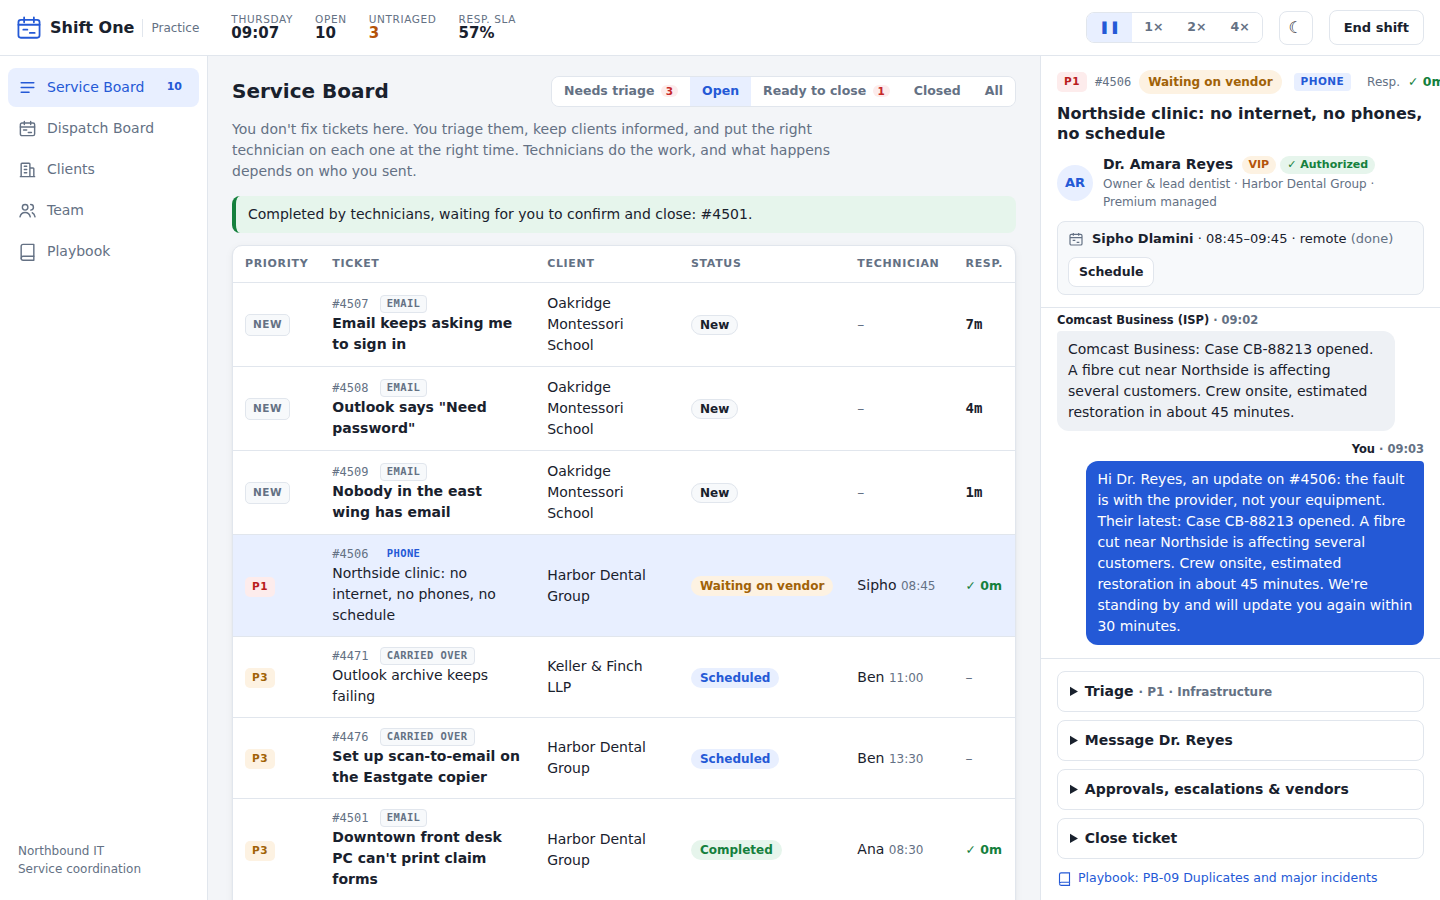
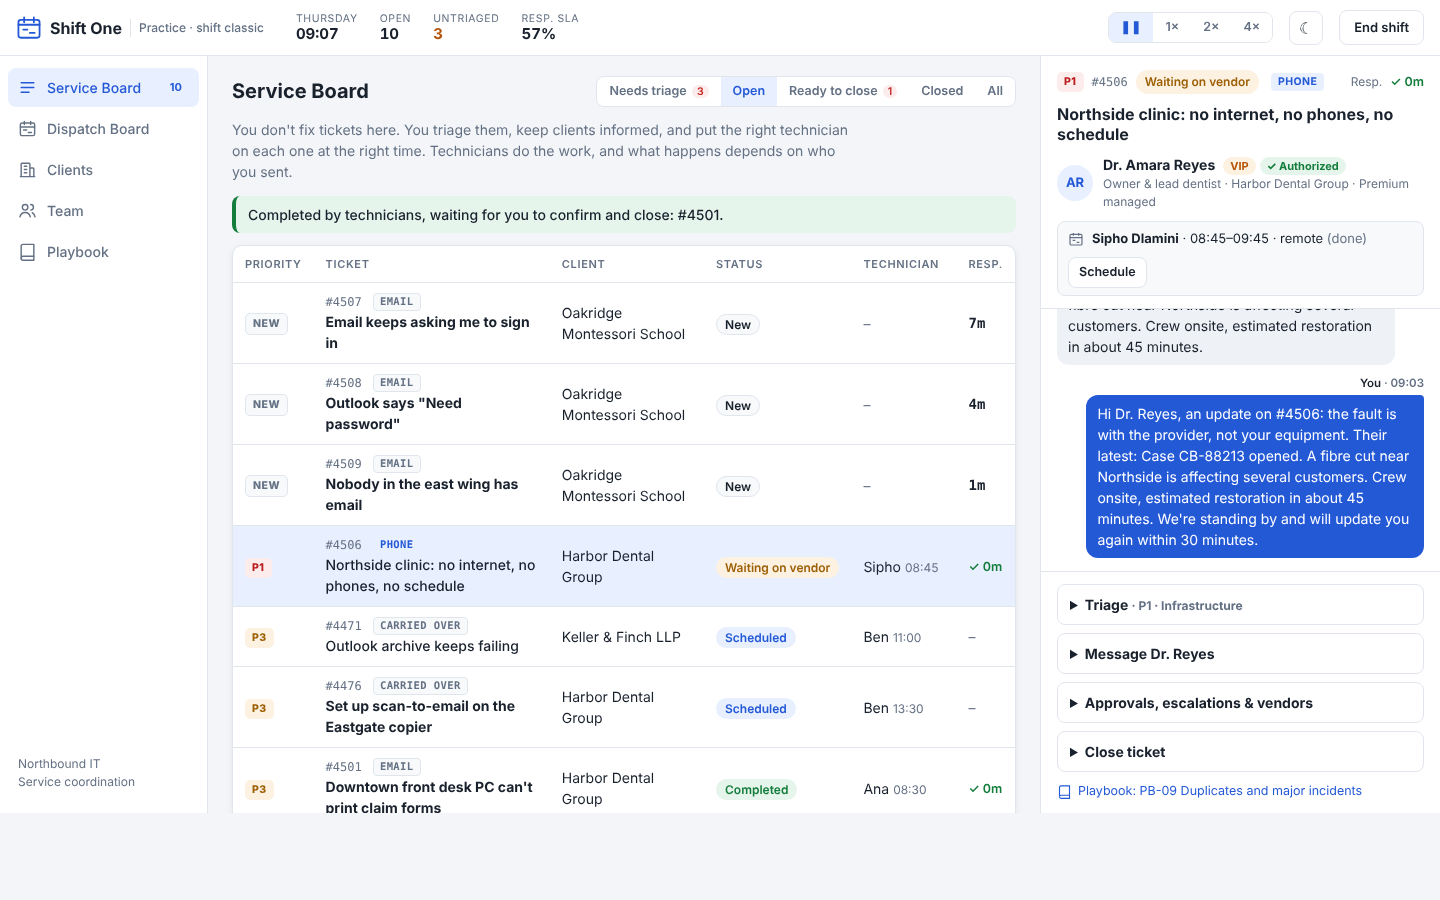
Regenerate README images; load the start-screen files in the harnesses
tools/shot.html and tools/dispatch-shot.html now load landing.css,
landing.js, focus.js and the Archivo face, so the start-screen shots
show the redesigned start screens instead of the old ones. Every image
regenerated with tools/screenshots.py: the dark-mode shots show the new
button labels.

Claude-Session: https://claude.ai/code/session_01LNDJ5EFAAbHZ7QXThGXrGK

diff --git a/tools/dispatch-shot.html b/tools/dispatch-shot.html
@@ -1,11 +1,11 @@
 <!DOCTYPE html>
 <!-- Screenshot harness for Service Coordinator mode: loads the real app, then stages a scene from the URL hash.
      Used by tools/screenshots.py. Example: /tools/dispatch-shot.html?theme=dark#dispatch -->
-<html lang="en"><head><meta charset="UTF-8"><meta name="viewport" content="width=device-width, initial-scale=1"><link rel="stylesheet" href="../css/tokens.css"><link rel="stylesheet" href="../css/styles.css"><link rel="stylesheet" href="../css/dispatch.css"></head>
+<html lang="en"><head><meta charset="UTF-8"><meta name="viewport" content="width=device-width, initial-scale=1"><link rel="stylesheet" href="https://fonts.googleapis.com/css2?family=Archivo:wdth,wght@62..125,400..800&display=swap"><link rel="stylesheet" href="../css/tokens.css"><link rel="stylesheet" href="../css/styles.css"><link rel="stylesheet" href="../css/dispatch.css"><link rel="stylesheet" href="../css/landing.css"></head>
 <body>
 <div id="app" data-phase="start"><header id="topbar"></header><nav id="sidebar"></nav><main id="main"></main><aside id="ticketpanel"></aside></div>
 <div id="modal-root"></div><div id="call-root"></div><div id="toasts"></div>
-<script src="../js/config.js"></script><script src="../js/dispatch/data.js"></script><script src="../js/dispatch/scenarios.js"></script><script src="../js/dispatch/app.js"></script>
+<script src="../js/config.js"></script><script src="../js/focus.js"></script><script src="../js/landing.js"></script><script src="../js/dispatch/data.js"></script><script src="../js/dispatch/scenarios.js"></script><script src="../js/dispatch/app.js"></script>
 <script>
 (() => {
   const params = new URLSearchParams(location.search);

diff --git a/tools/shot.html b/tools/shot.html
@@ -1,11 +1,11 @@
 <!DOCTYPE html>
 <!-- Screenshot harness: loads the real app, then stages a scene from the URL hash.
      Used by tools/screenshots.py. Example: /tools/shot.html?theme=dark#directory -->
-<html lang="en"><head><meta charset="UTF-8"><meta name="viewport" content="width=device-width, initial-scale=1"><link rel="stylesheet" href="../css/tokens.css"><link rel="stylesheet" href="../css/styles.css"></head>
+<html lang="en"><head><meta charset="UTF-8"><meta name="viewport" content="width=device-width, initial-scale=1"><link rel="stylesheet" href="https://fonts.googleapis.com/css2?family=Archivo:wdth,wght@62..125,400..800&display=swap"><link rel="stylesheet" href="../css/tokens.css"><link rel="stylesheet" href="../css/styles.css"><link rel="stylesheet" href="../css/landing.css"></head>
 <body>
 <div id="app" data-phase="start"><header id="topbar"></header><nav id="sidebar"></nav><main id="main"></main><aside id="ticketpanel"></aside></div>
 <div id="modal-root"></div><div id="call-root"></div><div id="toasts"></div>
-<script src="../js/config.js"></script><script src="../js/data.js"></script><script src="../js/scenarios.js"></script><script src="../js/app.js"></script>
+<script src="../js/config.js"></script><script src="../js/focus.js"></script><script src="../js/landing.js"></script><script src="../js/data.js"></script><script src="../js/scenarios.js"></script><script src="../js/app.js"></script>
 <script>
 (async () => {
   const params = new URLSearchParams(location.search);

diff --git a/CHANGELOG.md b/CHANGELOG.md
@@ -8,6 +8,7 @@ New: **Keyboard focus you can see, everywhere.**
 - Queue rows and the requester card are now reachable with Tab, and Enter or Space opens them.
 - Focus stays on the control you used after the screen updates, so you no longer land back at the top of the page. Dialogs take focus when they open and hand it back to the button that opened them when they close.
 - A test checks the ring's contrast on every background.
+- README images regenerated. They show the redesigned start screens and the new dark-mode button labels. The screenshot harnesses now load the start-screen styles and scripts they were missing.
 
 New: **One design system for both desks.**
 
